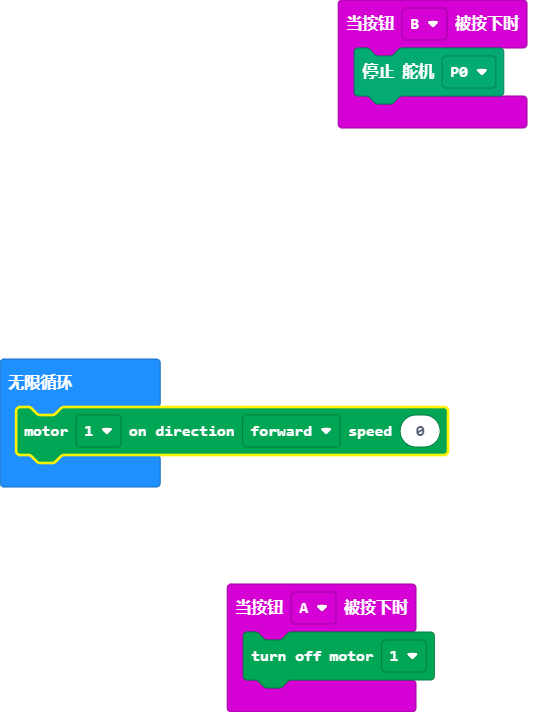
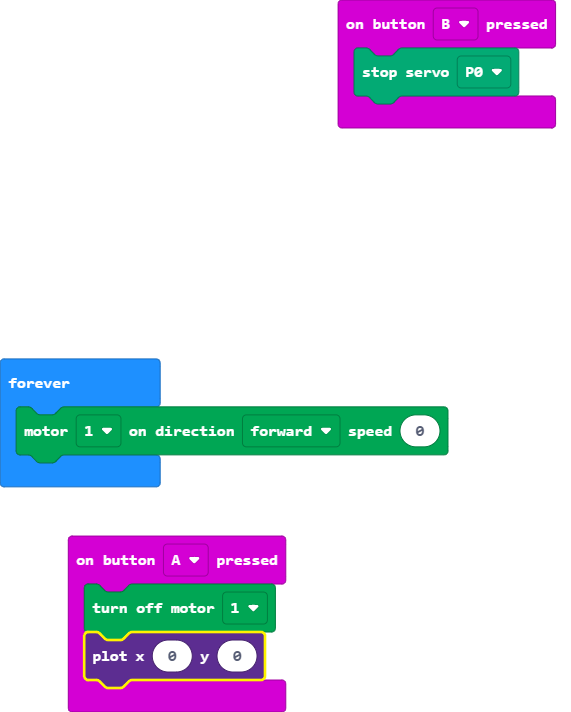
Update pxt.json, main.blocks, main.ts

diff --git a/main.ts b/main.ts
@@ -1,5 +1,6 @@
 input.onButtonPressed(Button.A, function () {
     kitronik_motor_driver.motorOff(kitronik_motor_driver.Motors.Motor1)
+    led.plot(0, 0)
 })
 input.onButtonPressed(Button.B, function () {
     servos.P0.stop()
